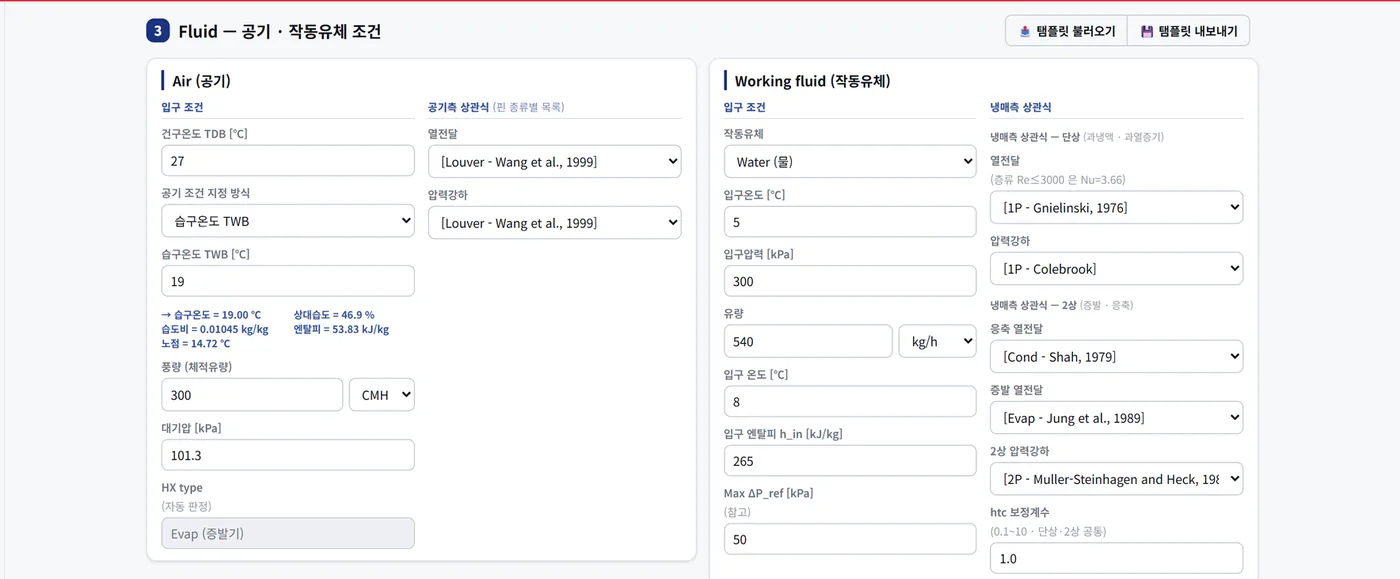
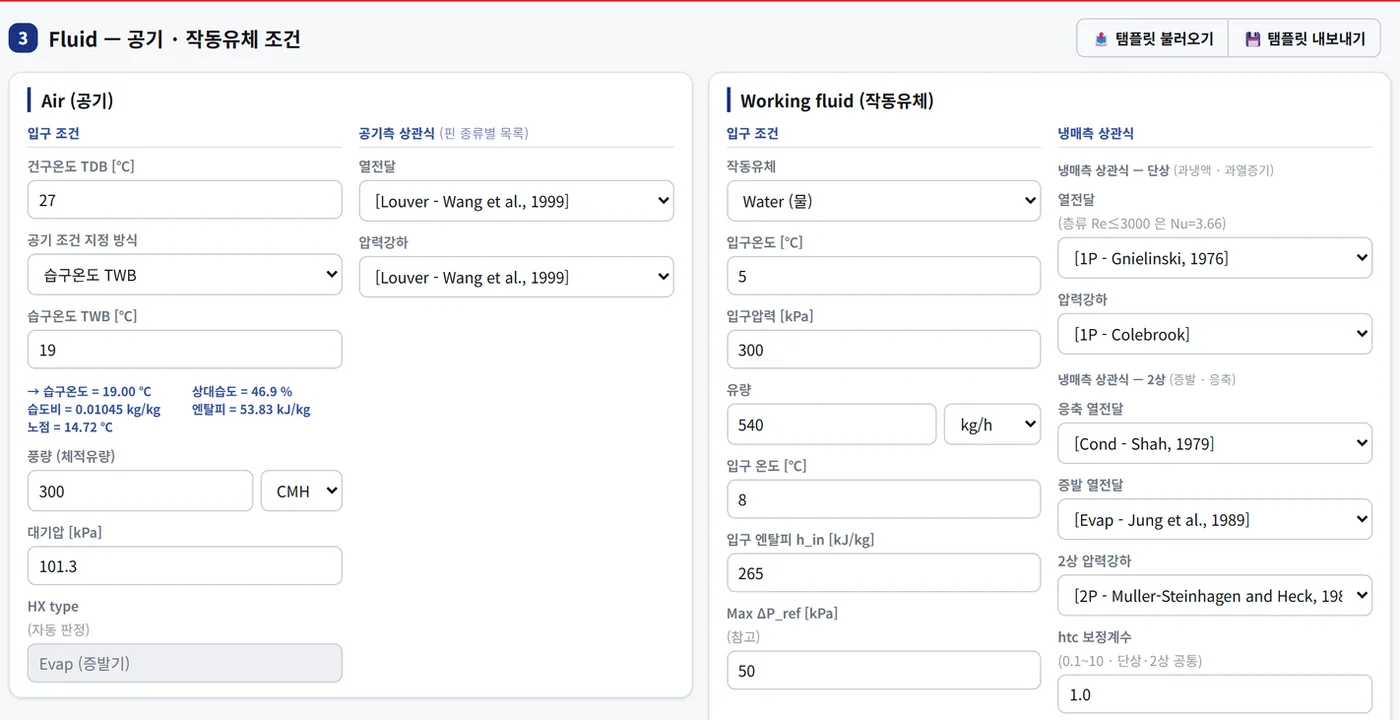
③ 유체 조건 — 2단 구조 복귀, 그림 안에서 가로 최대화
지난 커밋(ed906dd)에서 .feat.full 로 1단(글 위·그림 아래) 전체폭 확대를 했으나,
사용자 정정: 지면 구조(글 반·그림 반)는 유지하고 그림 자체 안에서 여백만 없애
최대화하라는 의도였음.

- index.html: .feat.full 되돌림, ③ 유체 조건도 다른 기능과 같은 2단 구조로 복귀
- assets/fluid.webp: main.content 가 카드 밖에 두던 좌우 여백(왼 186px·오 180px,
  실측)까지 잘라 카드가 프레임 가장자리(여유 10px)까지 차게 재교체.
  종횡비 2.419 -> 1.945, 1400x579 -> 1400x720. 같은 절반 칸에서도 카드가 약 25% 커짐.
- m.html: <img> width/height 속성을 새 비율에 맞게 보정
  (모바일은 컨테이너 폭은 그대로, 이미지 자체가 커져 카드도 같이 커짐)

diff --git a/index.html b/index.html
@@ -218,13 +218,11 @@ h2{
 }
 .shot img{width:100%}
 .shot.tall{max-width:392px; margin-inline:auto}
-/*  ③ 유체 조건 — 화면 안 입력 라벨이 많아 절반 칸(1fr)로는 글씨가 작다.
-    이 줄만 글 위·그림 아래로 쌓아 그림을 판면 전체 폭(--maxw)까지 키운다
-    (2026-09-03(12차) "좌우 한계까지 키워서 글씨를 잘 보이게" 요청).
-    txt 는 전체 폭으로 늘어나면 한 줄이 너무 길어져 오히려 읽기 나빠지므로
-    읽기 좋은 폭(720px, .sec-head 와 같은 값)에서 멈춘다. */
-.feat.full{grid-template-columns:1fr; gap:28px}
-.feat.full .txt{max-width:720px}
+/*  2026-09-03(12차)에 ③ 유체 조건만 1단(.feat.full)으로 늘렸다가, (13차) 사용자가
+    "지면 구조(글 반·그림 반)는 그대로 두고 **그림 안에서** 가로로 최대화하라"고
+    정정 — .feat.full 은 도로 뺐다. 대신 assets/fluid.webp 자체를 다시 오려
+    (build_lower_band.py) 카드 밖 여백을 없앴다 — 같은 절반 칸에서도 카드가 프레임을
+    꽉 채워 전보다 커 보인다. */
 .shot figcaption{
   padding:11px 14px; font-size:13px; color:var(--text-muted);
   background:var(--gray-50); border-top:1px solid var(--border); text-align:center;
@@ -493,7 +491,7 @@ h2{
         </figure>
       </div>
 
-      <div class="feat full">
+      <div class="feat">
         <div class="txt">
           <span class="idx">3</span>
           <h3>유체 조건 — 작동유체 58종</h3>
@@ -505,7 +503,7 @@ h2{
           </ul>
         </div>
         <figure class="shot">
-          <img src="assets/fluid.webp" width="1400" height="579" loading="lazy"
+          <img src="assets/fluid.webp" width="1400" height="720" loading="lazy"
                alt="유체 조건 화면 — 공기측과 작동유체측 입구 조건, 상관식 선택 항목이 두 열로 배치되어 있다.">
           <figcaption>③ 유체 조건 — 공기 입구상태 5방식 · 작동유체 58종</figcaption>
         </figure>

diff --git a/m.html b/m.html
@@ -309,7 +309,7 @@ h2{margin:0; font-size:21px; line-height:1.3; font-weight:800; letter-spacing:-.
           <li>단상·2상 열전달과 압력강하 상관식을 각각 선택합니다.</li>
         </ul>
         <figure class="shot">
-          <img src="assets/fluid.webp" width="1400" height="579" loading="lazy"
+          <img src="assets/fluid.webp" width="1400" height="720" loading="lazy"
                alt="유체 조건 화면 — 공기측과 작동유체측 입구 조건, 상관식 선택 항목이 두 열로 배치되어 있다.">
           <figcaption>③ 유체 조건 — 공기 입구상태 5방식 · 작동유체 58종</figcaption>
         </figure>
